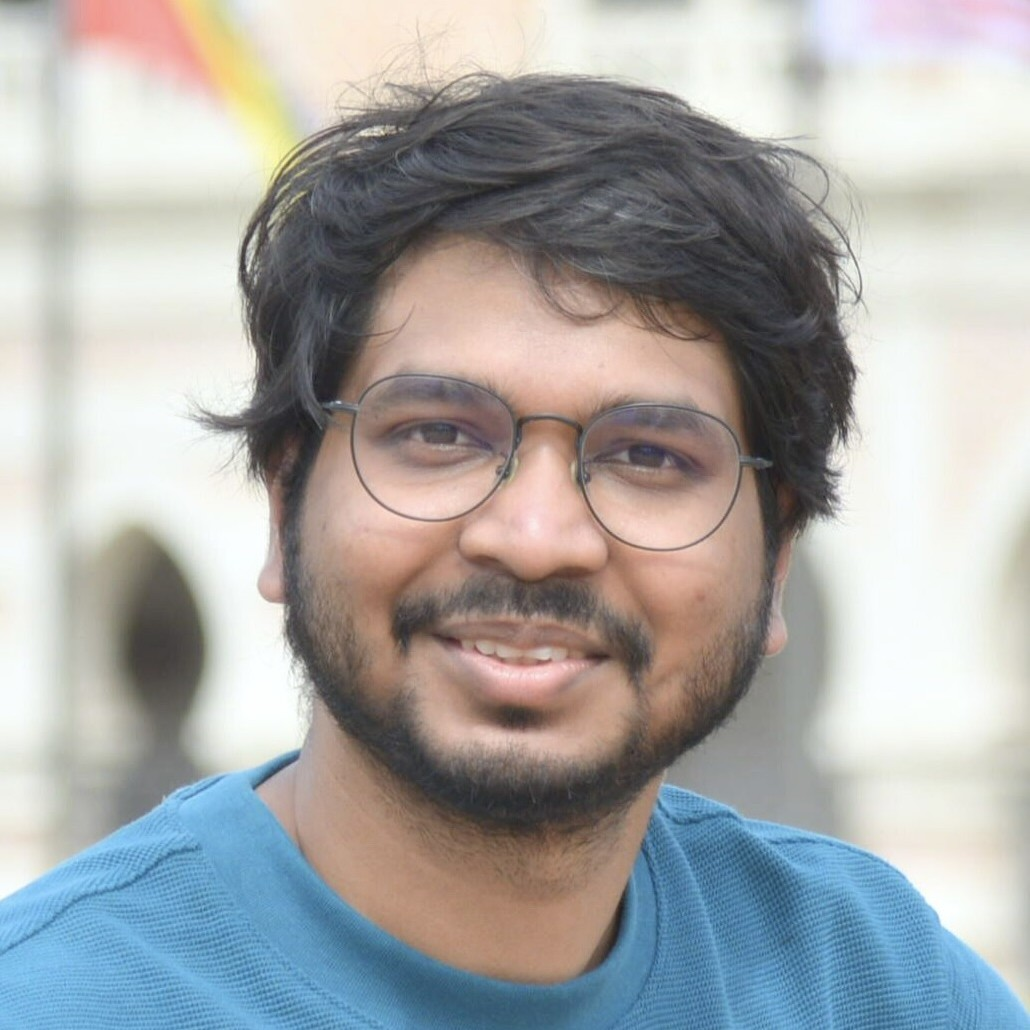
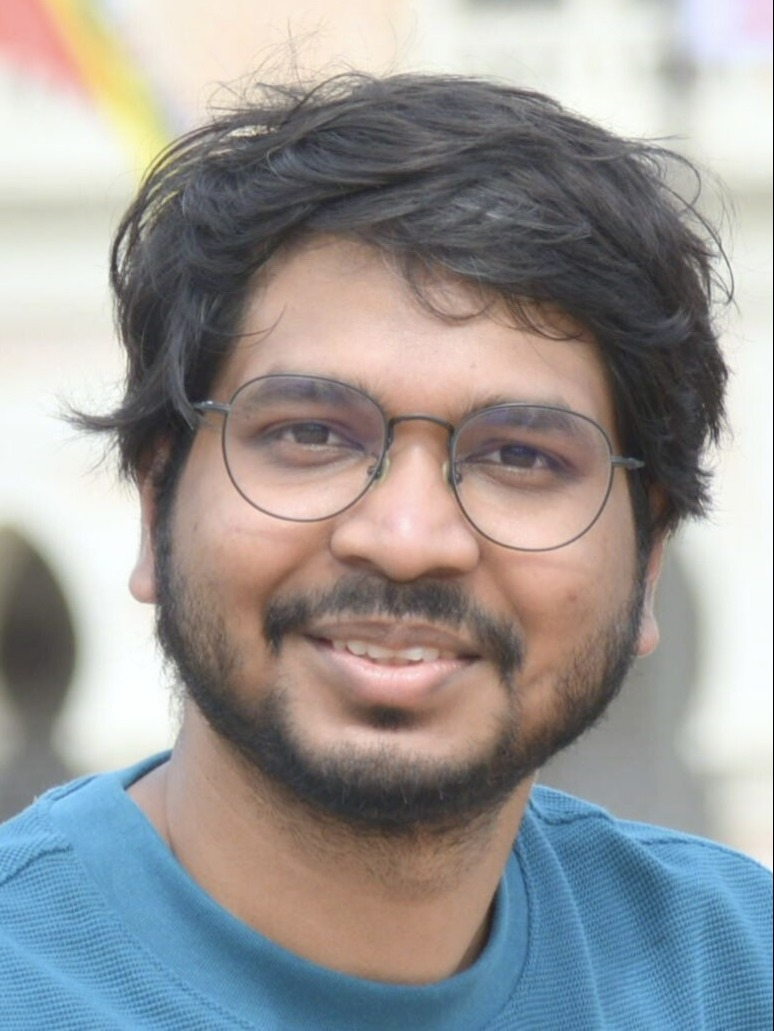
add photos of all members - all formatted in 3x4 ratio to look all similar

diff --git a/about.html b/about.html
@@ -154,7 +154,7 @@
           </div><!-- End Team Member -->
           <div class="col-lg-4" data-aos="fade-up" data-aos-delay="100">
             <div class="team-member d-flex align-items-start">
-              <div class="pic"><img src="assets/img/team/empty.jpg" class="img-fluid" alt=""></div>
+              <div class="pic"><img src="assets/img/team/cynthia.jpg" class="img-fluid" alt=""></div>
               <div class="member-info">
                 <h4>Ting-Ju Chen</h4>
                 <span>Team Member</span>
@@ -167,7 +167,7 @@
           </div><!-- End Team Member -->
           <div class="col-lg-4" data-aos="fade-up" data-aos-delay="100">
             <div class="team-member d-flex align-items-start">
-              <div class="pic"><img src="assets/img/team/empty.jpg" class="img-fluid" alt=""></div>
+              <div class="pic"><img src="assets/img/team/kahlok.jpg" class="img-fluid" alt=""></div>
               <div class="member-info">
                 <h4>Kah Lok Wong</h4>
                 <span>Team Member</span>
@@ -180,9 +180,9 @@
           </div><!-- End Team Member -->
           <div class="col-lg-4" data-aos="fade-up" data-aos-delay="100">
             <div class="team-member d-flex align-items-start">
-              <div class="pic"><img src="assets/img/team/empty.jpg" class="img-fluid" alt=""></div>
+              <div class="pic"><img src="assets/img/team/sunny.jpg" class="img-fluid" alt=""></div>
               <div class="member-info">
-                <h4>Yuu-Yung Lee</h4>
+                <h4>Yun-Tung Lee</h4>
                 <span>Team Member</span>
                 <p>Y2, CCDS</p>
                 <div class="social">